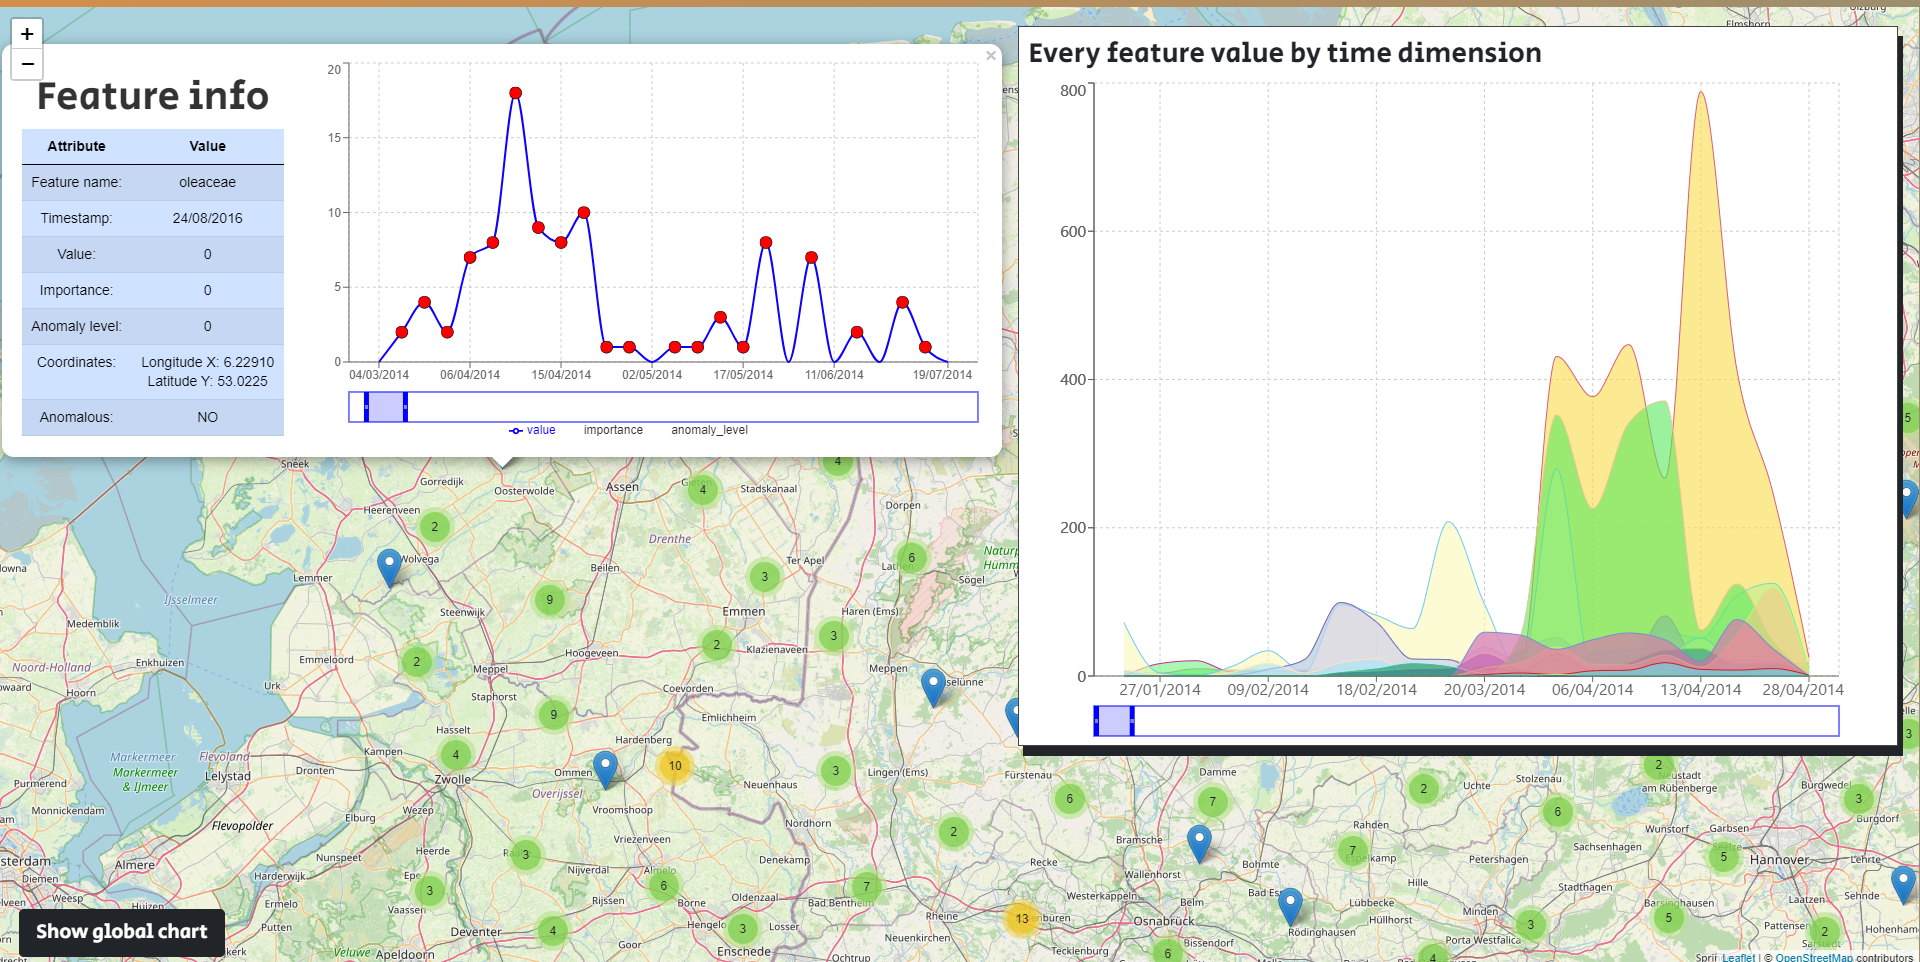
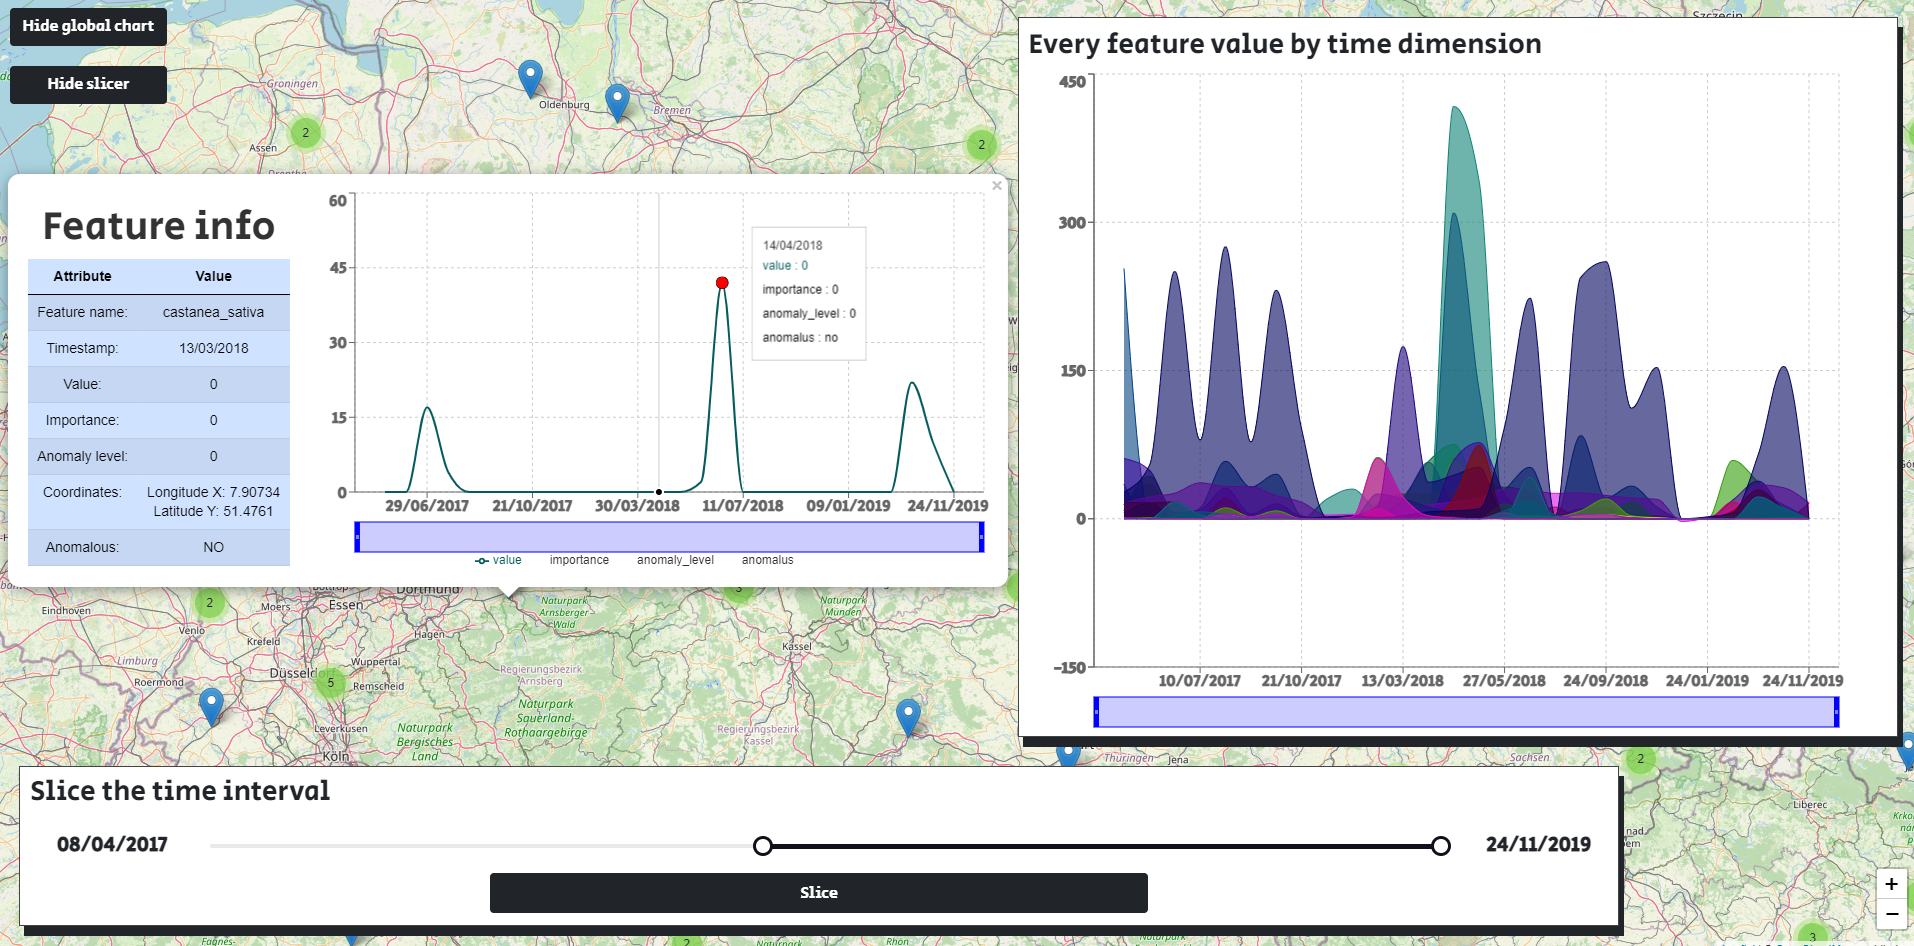
Readme and fine tunning
doc: Updated readme.

refactor: Deleted some unneeded comments.

diff --git a/src/chart-components/local-chart.js b/src/chart-components/local-chart.js
@@ -42,26 +42,7 @@ const LocalChart = ({ featureName, anomalies }) => {
       );
     }
     return null;
-
-    // return (
-    //   <svg
-    //     x={cx - 7}
-    //     y={cy - 7}
-    //     width={75}
-    //     height={75}
-    //     fill="green"
-    //     viewBox="0 0 1024 1024"
-    //   >
-    //     <circle
-    //       cx="95"
-    //       cy="95"
-    //       r="95"
-    //       stroke="black"
-    //       strokeWidth="10"
-    //       fill="green"
-    //     />
-    //   </svg>
-    // );
+    
   };
   
   return (

diff --git a/public/index.html b/public/index.html
@@ -3,7 +3,7 @@
   <head>
     <meta charset="utf-8" />
     <link rel="icon" href="%PUBLIC_URL%/favicon.ico" />
-    <meta name="viewport" content="width=device-width, initial-scale=1, maximum-scale=1.0" />
+    <meta name="viewport" content="width=device-width, initial-scale=1.0, maximum-scale=1.0, user-scalable=no" />
     <meta name="theme-color" content="#000000" />
     <meta
       name="description"

diff --git a/README.md b/README.md
@@ -80,3 +80,10 @@ The main libraries in use are:
 ### *To-do's...* ###
 
 - [x] Do the refactoring of code, fix bugs and optimize what can be optimized.   
+
+## Milestone1 (September 25th): ##
+
+> Implement a slicer functionality. 
+### *To-do's...* ###
+
+- [x] Develop a slider that can select a time interval and slice it to have only visualize features from that date period.
